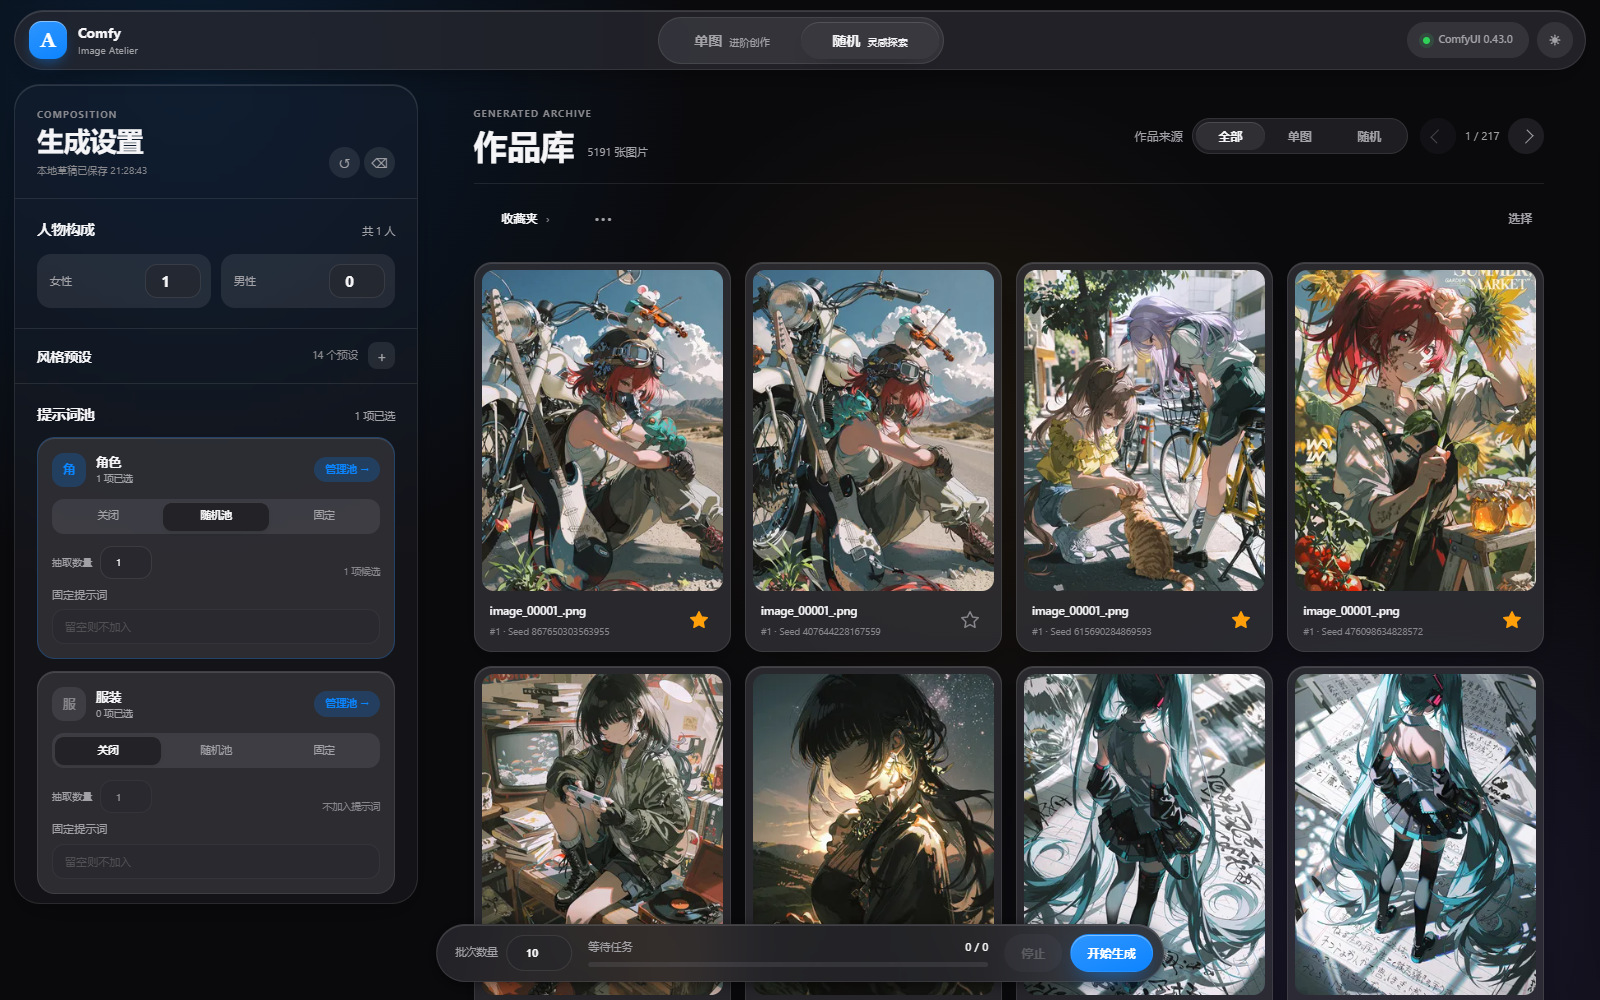
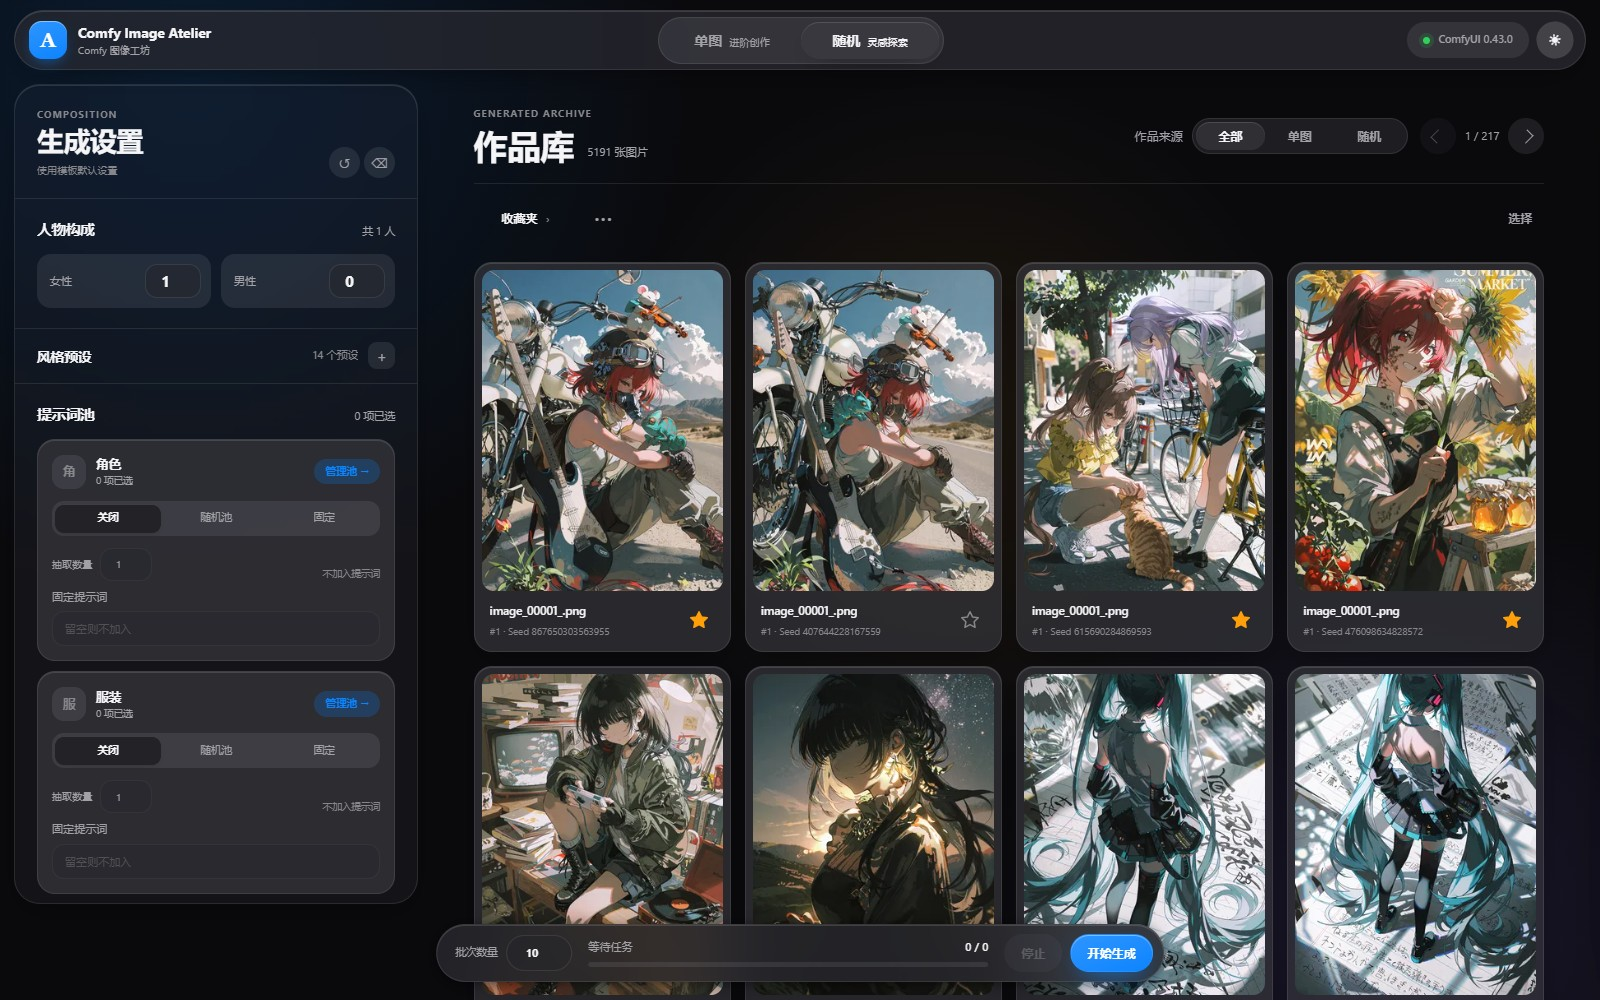
fix: show full WebUI product name and Chinese subtitle

diff --git a/static/index.html b/static/index.html
@@ -28,7 +28,7 @@
   <header class="topbar glass">
     <a class="brand" href="#" aria-label="Comfy Image Atelier 首页">
       <span class="brand-mark">A</span>
-      <span class="brand-copy"><strong>Comfy</strong><small>Image Atelier</small></span>
+      <span class="brand-copy"><strong>Comfy Image Atelier</strong><small>Comfy 图像工坊</small></span>
     </a>
     <nav id="workbenchSwitch" class="workbench-switch" role="tablist" aria-label="工作台">
       <span class="workbench-switch-thumb" aria-hidden="true"></span>
